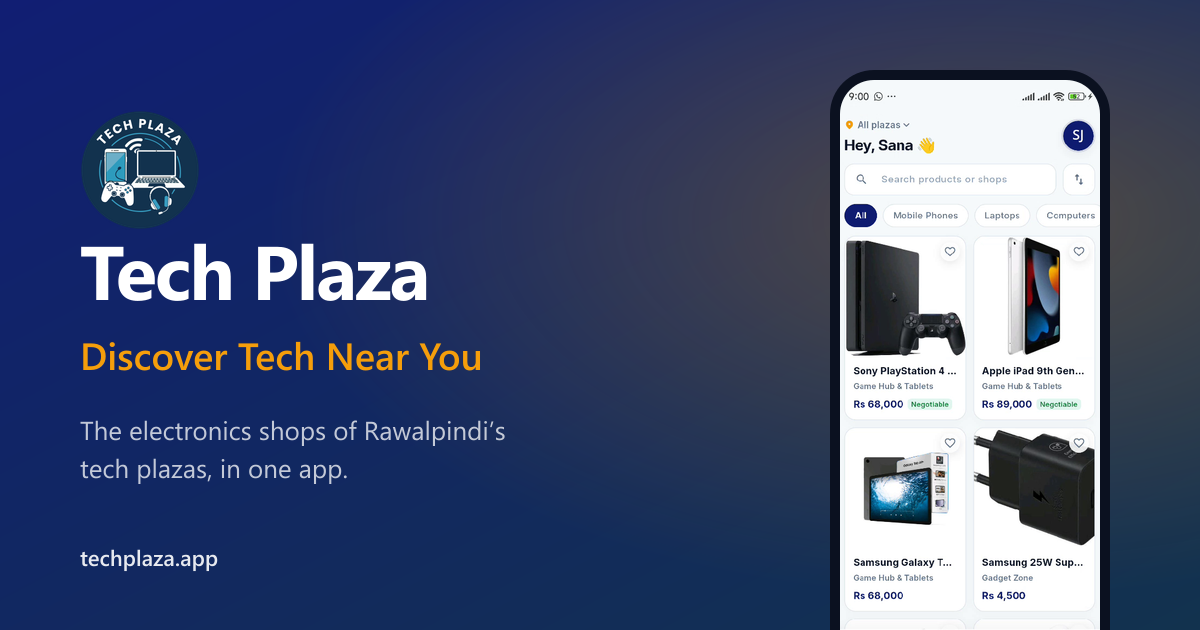
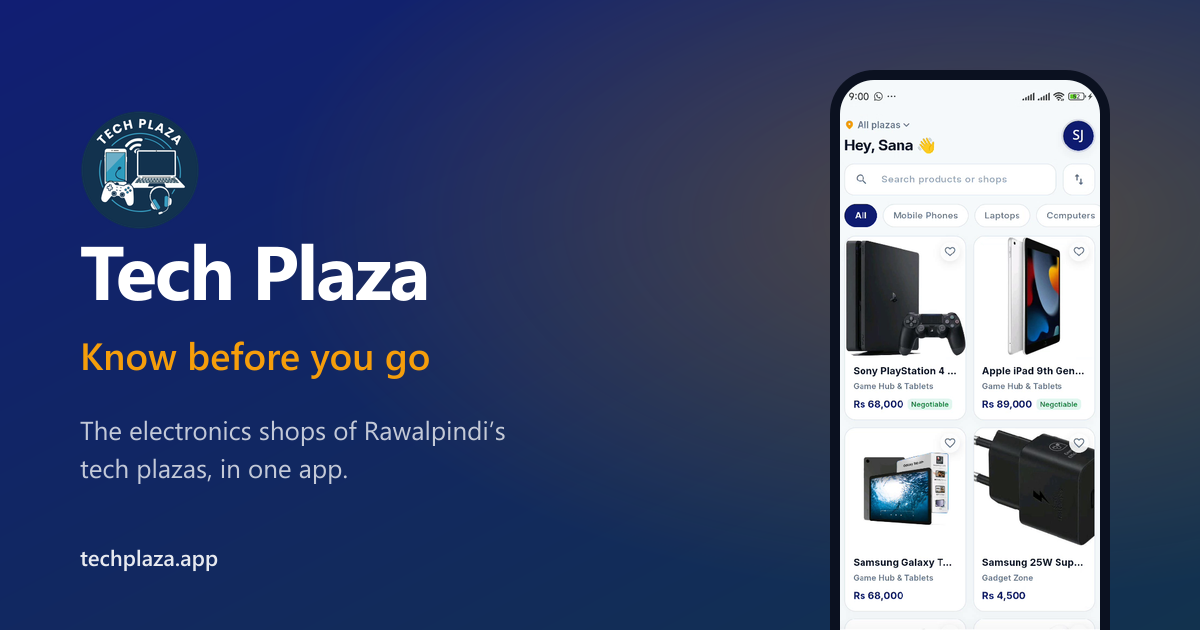
feat: adopt "Know before you go" tagline
Update the site tagline (title, footer, hero headline, manifest,
schema.org slogan) and regenerate the share image.

Changed region(s): [[0.0617, 0.5429, 0.4008, 0.6032]]

diff --git a/src/config/site.ts b/src/config/site.ts
@@ -3,7 +3,11 @@
  */
 export const site = {
   name: 'Tech Plaza',
-  tagline: 'Discover Tech Near You',
+  /**
+   * Brand tagline, same as the app. Also written out in the hero headline,
+   * public/site.webmanifest and scripts/generate-brand-assets.mjs (og-image).
+   */
+  tagline: 'Know before you go',
   description:
     'Tech Plaza puts the electronics shops of Rawalpindi’s tech plazas on your phone. Browse phones, laptops and accessories, compare prices, and chat with the shop before you visit.',
   url: 'https://techplaza.app',
